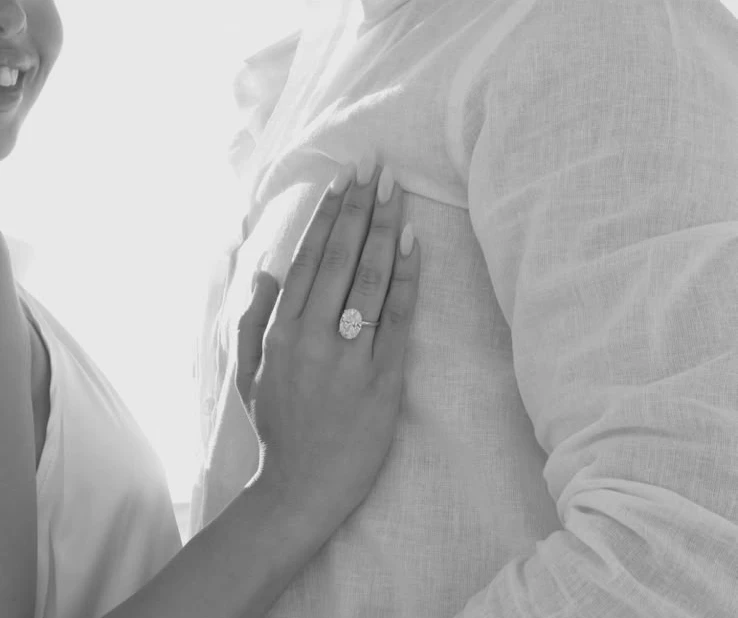
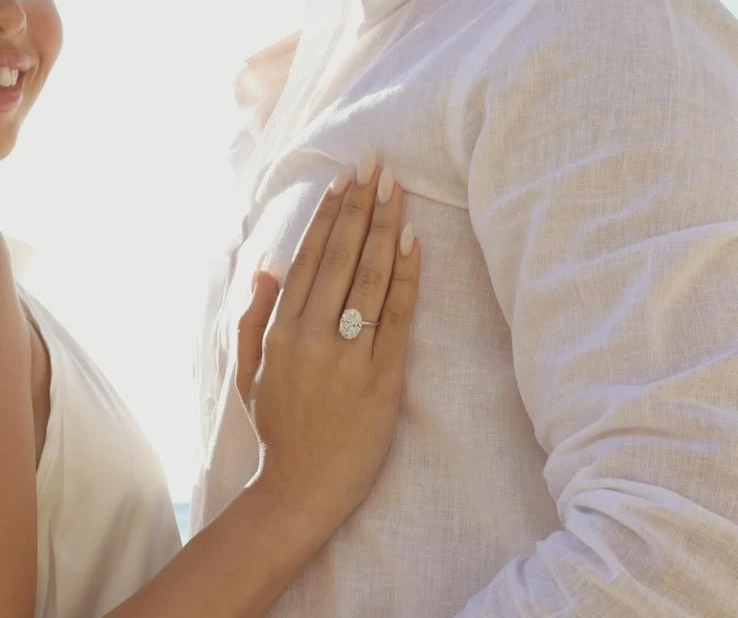
Show the original colors of Refael jewelry photographs

diff --git a/ru.html b/ru.html
@@ -3,7 +3,7 @@
 <title>REFAEL | Ювелирные украшения на Алмазной бирже в Рамат-Гане</title>
 <meta name="description" content="Откройте коллекцию колец, подвесок, серёг и браслетов REFAEL. Природные и выращенные бриллианты на Алмазной бирже в Рамат-Гане.">
 <meta name="theme-color" content="#ffffff"><meta property="og:type" content="website"><meta property="og:locale" content="ru_RU"><meta property="og:title" content="REFAEL Fine Jewelry"><meta property="og:description" content="Украшения с бриллиантами на Алмазной бирже в Рамат-Гане"><meta property="og:image" content="https://ic3cr1pt.github.io/refael-fine-jewelry/assets/collier-share.jpg">
-<link rel="icon" href="assets/favicon.svg" type="image/svg+xml"><link rel="stylesheet" href="style.css?v=collier"><link rel="preload" as="font" type="font/woff2" href="assets/type/frank.woff2" crossorigin>
+<link rel="icon" href="assets/favicon.svg" type="image/svg+xml"><link rel="stylesheet" href="style.css?v=color-photos"><link rel="preload" as="font" type="font/woff2" href="assets/type/frank.woff2" crossorigin>
 <script defer src="site.js?v=collier"></script><script defer src="diamond.js?v=collier"></script><link rel="alternate" hreflang="he" href="https://ic3cr1pt.github.io/refael-fine-jewelry/"><link rel="alternate" hreflang="en" href="https://ic3cr1pt.github.io/refael-fine-jewelry/en.html"><link rel="alternate" hreflang="ru" href="https://ic3cr1pt.github.io/refael-fine-jewelry/ru.html"><link rel="canonical" href="https://ic3cr1pt.github.io/refael-fine-jewelry/ru.html"></head>
 <body>
 <svg xmlns="http://www.w3.org/2000/svg" class="symbols" aria-hidden="true"><symbol id="i-instagram" viewBox="0 0 24 24"><rect x="3.5" y="3.5" width="17" height="17" rx="4.8"/><circle cx="12" cy="12" r="4"/><circle cx="17.5" cy="6.7" r=".85" fill="currentColor" stroke="none"/></symbol><symbol id="i-whatsapp" viewBox="0 0 24 24"><path d="M20.9 11.7a8.9 8.9 0 0 1-13.2 7.8l-4.7 1.2 1.3-4.6a8.9 8.9 0 1 1 16.6-4.4Z"/><path d="M8.2 7.2c.4-.4.8-.4 1.1-.1l1.1 2c.2.3.2.5-.1.8l-.6.7c.7 1.4 1.8 2.5 3.2 3.1l.8-.9c.2-.2.4-.3.7-.1l2 1c.3.2.4.5.2.9-.4 1.2-1.3 1.8-2.5 1.6-3.1-.6-6.3-3.6-6.9-6.4-.2-1 .2-1.9 1-2.6Z" fill="currentColor" stroke="none"/></symbol><symbol id="i-phone" viewBox="0 0 24 24"><path d="M7.7 3.2 10 7.5 7.9 9.4c1.5 3 3.5 5 6.6 6.7l2-2.1 4.1 2.3c.6.3.8 1 .5 1.7-.8 1.9-2.3 3-4.4 2.6C10.4 19.5 4.4 13.4 3.3 7c-.4-1.8.8-3.5 2.9-4.1.7-.2 1.2-.1 1.5.3Z"/></symbol><symbol id="i-menu" viewBox="0 0 24 24"><path d="M3 8h18M3 16h18"/></symbol><symbol id="i-close" viewBox="0 0 24 24"><path d="m6 6 12 12M18 6 6 18"/></symbol><symbol id="i-prev" viewBox="0 0 24 24"><path d="m14.5 6-6 6 6 6"/></symbol><symbol id="i-next" viewBox="0 0 24 24"><path d="m9.5 6 6 6-6 6"/></symbol><symbol id="i-plus" viewBox="0 0 24 24"><path d="M12 5v14M5 12h14"/></symbol><symbol id="i-pin" viewBox="0 0 24 24"><path d="M19 10c0 5-7 11-7 11S5 15 5 10a7 7 0 1 1 14 0Z"/><circle cx="12" cy="10" r="2.2"/></symbol><symbol id="i-rotate" viewBox="0 0 24 24"><path d="M4 11a8 8 0 1 1 1.5 6M4 5v6h6"/></symbol><symbol id="i-diamond" viewBox="0 0 24 24"><path d="M2 8.5 6 4h12l4 4.5L12 21 2 8.5ZM2 8.5h20M8.5 8.5 12 21l3.5-12.5L12 4l-3.5 4.5Z"/></symbol><symbol id="i-chevron" viewBox="0 0 24 24"><path d="m7 10 5 5 5-5"/></symbol></svg>
@@ -27,7 +27,7 @@
     </div>
   </article>
   <article class="campaign-scene" id="scene-engagement" aria-labelledby="title-engagement" hidden>
-    <figure class="campaign-visual"><img src="assets/engagement-oval.webp" width="738" height="618" loading="lazy" alt="Помолвочная фотография Refael. Рука с овальным бриллиантовым кольцом на белой рубашке"><figcaption dir="auto">Фотография REFAEL</figcaption></figure>
+    <figure class="campaign-visual"><img src="assets/engagement-oval.webp?v=color" width="738" height="618" loading="lazy" alt="Помолвочная фотография Refael. Рука с овальным бриллиантовым кольцом на белой рубашке"><figcaption dir="auto">Фотография REFAEL</figcaption></figure>
     <div class="campaign-copy" dir="ltr">
       <p class="campaign-origin">Алмазная биржа · Рамат-Ган</p>
       <h2 id="title-engagement">Помолвочное <em>кольцо</em></h2>

diff --git a/index.html b/index.html
@@ -3,7 +3,7 @@
 <title>REFAEL | תכשיטי יהלומים בבורסת היהלומים ברמת גן</title>
 <meta name="description" content="גלו את תכשיטי REFAEL. טבעות, תליונים, עגילים וצמידים עם יהלומים טבעיים ויהלומי מעבדה. בורסת היהלומים ברמת גן.">
 <meta name="theme-color" content="#ffffff"><meta property="og:type" content="website"><meta property="og:locale" content="he_IL"><meta property="og:title" content="REFAEL Fine Jewelry"><meta property="og:description" content="תכשיטי יהלומים בבורסת היהלומים ברמת גן"><meta property="og:image" content="https://ic3cr1pt.github.io/refael-fine-jewelry/assets/collier-share.jpg">
-<link rel="icon" href="assets/favicon.svg" type="image/svg+xml"><link rel="stylesheet" href="style.css?v=collier"><link rel="preload" as="font" type="font/woff2" href="assets/type/frank.woff2" crossorigin>
+<link rel="icon" href="assets/favicon.svg" type="image/svg+xml"><link rel="stylesheet" href="style.css?v=color-photos"><link rel="preload" as="font" type="font/woff2" href="assets/type/frank.woff2" crossorigin>
 <script defer src="site.js?v=collier"></script><script defer src="diamond.js?v=collier"></script><link rel="alternate" hreflang="he" href="https://ic3cr1pt.github.io/refael-fine-jewelry/"><link rel="alternate" hreflang="en" href="https://ic3cr1pt.github.io/refael-fine-jewelry/en.html"><link rel="alternate" hreflang="ru" href="https://ic3cr1pt.github.io/refael-fine-jewelry/ru.html"><link rel="canonical" href="https://ic3cr1pt.github.io/refael-fine-jewelry/"></head>
 <body>
 <svg xmlns="http://www.w3.org/2000/svg" class="symbols" aria-hidden="true"><symbol id="i-instagram" viewBox="0 0 24 24"><rect x="3.5" y="3.5" width="17" height="17" rx="4.8"/><circle cx="12" cy="12" r="4"/><circle cx="17.5" cy="6.7" r=".85" fill="currentColor" stroke="none"/></symbol><symbol id="i-whatsapp" viewBox="0 0 24 24"><path d="M20.9 11.7a8.9 8.9 0 0 1-13.2 7.8l-4.7 1.2 1.3-4.6a8.9 8.9 0 1 1 16.6-4.4Z"/><path d="M8.2 7.2c.4-.4.8-.4 1.1-.1l1.1 2c.2.3.2.5-.1.8l-.6.7c.7 1.4 1.8 2.5 3.2 3.1l.8-.9c.2-.2.4-.3.7-.1l2 1c.3.2.4.5.2.9-.4 1.2-1.3 1.8-2.5 1.6-3.1-.6-6.3-3.6-6.9-6.4-.2-1 .2-1.9 1-2.6Z" fill="currentColor" stroke="none"/></symbol><symbol id="i-phone" viewBox="0 0 24 24"><path d="M7.7 3.2 10 7.5 7.9 9.4c1.5 3 3.5 5 6.6 6.7l2-2.1 4.1 2.3c.6.3.8 1 .5 1.7-.8 1.9-2.3 3-4.4 2.6C10.4 19.5 4.4 13.4 3.3 7c-.4-1.8.8-3.5 2.9-4.1.7-.2 1.2-.1 1.5.3Z"/></symbol><symbol id="i-menu" viewBox="0 0 24 24"><path d="M3 8h18M3 16h18"/></symbol><symbol id="i-close" viewBox="0 0 24 24"><path d="m6 6 12 12M18 6 6 18"/></symbol><symbol id="i-prev" viewBox="0 0 24 24"><path d="m14.5 6-6 6 6 6"/></symbol><symbol id="i-next" viewBox="0 0 24 24"><path d="m9.5 6 6 6-6 6"/></symbol><symbol id="i-plus" viewBox="0 0 24 24"><path d="M12 5v14M5 12h14"/></symbol><symbol id="i-pin" viewBox="0 0 24 24"><path d="M19 10c0 5-7 11-7 11S5 15 5 10a7 7 0 1 1 14 0Z"/><circle cx="12" cy="10" r="2.2"/></symbol><symbol id="i-rotate" viewBox="0 0 24 24"><path d="M4 11a8 8 0 1 1 1.5 6M4 5v6h6"/></symbol><symbol id="i-diamond" viewBox="0 0 24 24"><path d="M2 8.5 6 4h12l4 4.5L12 21 2 8.5ZM2 8.5h20M8.5 8.5 12 21l3.5-12.5L12 4l-3.5 4.5Z"/></symbol><symbol id="i-chevron" viewBox="0 0 24 24"><path d="m7 10 5 5 5-5"/></symbol></svg>
@@ -27,7 +27,7 @@
     </div>
   </article>
   <article class="campaign-scene" id="scene-engagement" aria-labelledby="title-engagement" hidden>
-    <figure class="campaign-visual"><img src="assets/engagement-oval.webp" width="738" height="618" loading="lazy" alt="צילום אירוסין של REFAEL. יד עם טבעת יהלום אובל מונחת על חולצה לבנה"><figcaption dir="auto">צילום של REFAEL</figcaption></figure>
+    <figure class="campaign-visual"><img src="assets/engagement-oval.webp?v=color" width="738" height="618" loading="lazy" alt="צילום אירוסין של REFAEL. יד עם טבעת יהלום אובל מונחת על חולצה לבנה"><figcaption dir="auto">צילום של REFAEL</figcaption></figure>
     <div class="campaign-copy" dir="rtl">
       <p class="campaign-origin">בורסת היהלומים · רמת גן</p>
       <h2 id="title-engagement">טבעת <em>האירוסין</em></h2>

diff --git a/en.html b/en.html
@@ -3,7 +3,7 @@
 <title>REFAEL | Diamond jewelry at the Ramat Gan Diamond Exchange</title>
 <meta name="description" content="Explore rings, pendants, earrings and bracelets by REFAEL. Natural and lab-grown diamonds at the Ramat Gan Diamond Exchange.">
 <meta name="theme-color" content="#ffffff"><meta property="og:type" content="website"><meta property="og:locale" content="en_US"><meta property="og:title" content="REFAEL Fine Jewelry"><meta property="og:description" content="Diamond jewelry at the Ramat Gan Diamond Exchange"><meta property="og:image" content="https://ic3cr1pt.github.io/refael-fine-jewelry/assets/collier-share.jpg">
-<link rel="icon" href="assets/favicon.svg" type="image/svg+xml"><link rel="stylesheet" href="style.css?v=collier"><link rel="preload" as="font" type="font/woff2" href="assets/type/frank.woff2" crossorigin>
+<link rel="icon" href="assets/favicon.svg" type="image/svg+xml"><link rel="stylesheet" href="style.css?v=color-photos"><link rel="preload" as="font" type="font/woff2" href="assets/type/frank.woff2" crossorigin>
 <script defer src="site.js?v=collier"></script><script defer src="diamond.js?v=collier"></script><link rel="alternate" hreflang="he" href="https://ic3cr1pt.github.io/refael-fine-jewelry/"><link rel="alternate" hreflang="en" href="https://ic3cr1pt.github.io/refael-fine-jewelry/en.html"><link rel="alternate" hreflang="ru" href="https://ic3cr1pt.github.io/refael-fine-jewelry/ru.html"><link rel="canonical" href="https://ic3cr1pt.github.io/refael-fine-jewelry/en.html"></head>
 <body>
 <svg xmlns="http://www.w3.org/2000/svg" class="symbols" aria-hidden="true"><symbol id="i-instagram" viewBox="0 0 24 24"><rect x="3.5" y="3.5" width="17" height="17" rx="4.8"/><circle cx="12" cy="12" r="4"/><circle cx="17.5" cy="6.7" r=".85" fill="currentColor" stroke="none"/></symbol><symbol id="i-whatsapp" viewBox="0 0 24 24"><path d="M20.9 11.7a8.9 8.9 0 0 1-13.2 7.8l-4.7 1.2 1.3-4.6a8.9 8.9 0 1 1 16.6-4.4Z"/><path d="M8.2 7.2c.4-.4.8-.4 1.1-.1l1.1 2c.2.3.2.5-.1.8l-.6.7c.7 1.4 1.8 2.5 3.2 3.1l.8-.9c.2-.2.4-.3.7-.1l2 1c.3.2.4.5.2.9-.4 1.2-1.3 1.8-2.5 1.6-3.1-.6-6.3-3.6-6.9-6.4-.2-1 .2-1.9 1-2.6Z" fill="currentColor" stroke="none"/></symbol><symbol id="i-phone" viewBox="0 0 24 24"><path d="M7.7 3.2 10 7.5 7.9 9.4c1.5 3 3.5 5 6.6 6.7l2-2.1 4.1 2.3c.6.3.8 1 .5 1.7-.8 1.9-2.3 3-4.4 2.6C10.4 19.5 4.4 13.4 3.3 7c-.4-1.8.8-3.5 2.9-4.1.7-.2 1.2-.1 1.5.3Z"/></symbol><symbol id="i-menu" viewBox="0 0 24 24"><path d="M3 8h18M3 16h18"/></symbol><symbol id="i-close" viewBox="0 0 24 24"><path d="m6 6 12 12M18 6 6 18"/></symbol><symbol id="i-prev" viewBox="0 0 24 24"><path d="m14.5 6-6 6 6 6"/></symbol><symbol id="i-next" viewBox="0 0 24 24"><path d="m9.5 6 6 6-6 6"/></symbol><symbol id="i-plus" viewBox="0 0 24 24"><path d="M12 5v14M5 12h14"/></symbol><symbol id="i-pin" viewBox="0 0 24 24"><path d="M19 10c0 5-7 11-7 11S5 15 5 10a7 7 0 1 1 14 0Z"/><circle cx="12" cy="10" r="2.2"/></symbol><symbol id="i-rotate" viewBox="0 0 24 24"><path d="M4 11a8 8 0 1 1 1.5 6M4 5v6h6"/></symbol><symbol id="i-diamond" viewBox="0 0 24 24"><path d="M2 8.5 6 4h12l4 4.5L12 21 2 8.5ZM2 8.5h20M8.5 8.5 12 21l3.5-12.5L12 4l-3.5 4.5Z"/></symbol><symbol id="i-chevron" viewBox="0 0 24 24"><path d="m7 10 5 5 5-5"/></symbol></svg>
@@ -27,7 +27,7 @@
     </div>
   </article>
   <article class="campaign-scene" id="scene-engagement" aria-labelledby="title-engagement" hidden>
-    <figure class="campaign-visual"><img src="assets/engagement-oval.webp" width="738" height="618" loading="lazy" alt="Refael engagement photograph of a hand wearing an oval diamond ring against a white shirt"><figcaption dir="auto">Photograph by REFAEL</figcaption></figure>
+    <figure class="campaign-visual"><img src="assets/engagement-oval.webp?v=color" width="738" height="618" loading="lazy" alt="Refael engagement photograph of a hand wearing an oval diamond ring against a white shirt"><figcaption dir="auto">Photograph by REFAEL</figcaption></figure>
     <div class="campaign-copy" dir="ltr">
       <p class="campaign-origin">Diamond Exchange · Ramat Gan</p>
       <h2 id="title-engagement">The engagement <em>ring</em></h2>

diff --git a/style.css b/style.css
@@ -127,7 +127,7 @@ h2{font:400 clamp(2.55rem,4.45vw,5rem)/1.1 var(--serif);letter-spacing:-.045em}
 .pieces{display:grid;grid-template-columns:repeat(3,minmax(0,1fr));column-gap:clamp(16px,2vw,35px);row-gap:36px}
 .piece-open{display:block}
 .piece-photo{position:relative;overflow:hidden;background:#d8d8d8;aspect-ratio:1.16}
-.piece-photo img{filter:grayscale(1);width:100%;height:100%;object-fit:cover;transition:transform .65s cubic-bezier(.2,.6,.2,1)}
+.piece-photo img{width:100%;height:100%;object-fit:cover;transition:transform .65s cubic-bezier(.2,.6,.2,1)}
 .piece-open:hover .piece-photo img{transform:scale(1.045)}
 .enlarge{position:absolute;inset-inline-end:12px;bottom:12px;width:34px;height:34px;display:grid;place-items:center;border-radius:100%;background:#f6f6f6eb;color:#282828}
 .enlarge .icon{width:15px;height:15px}
